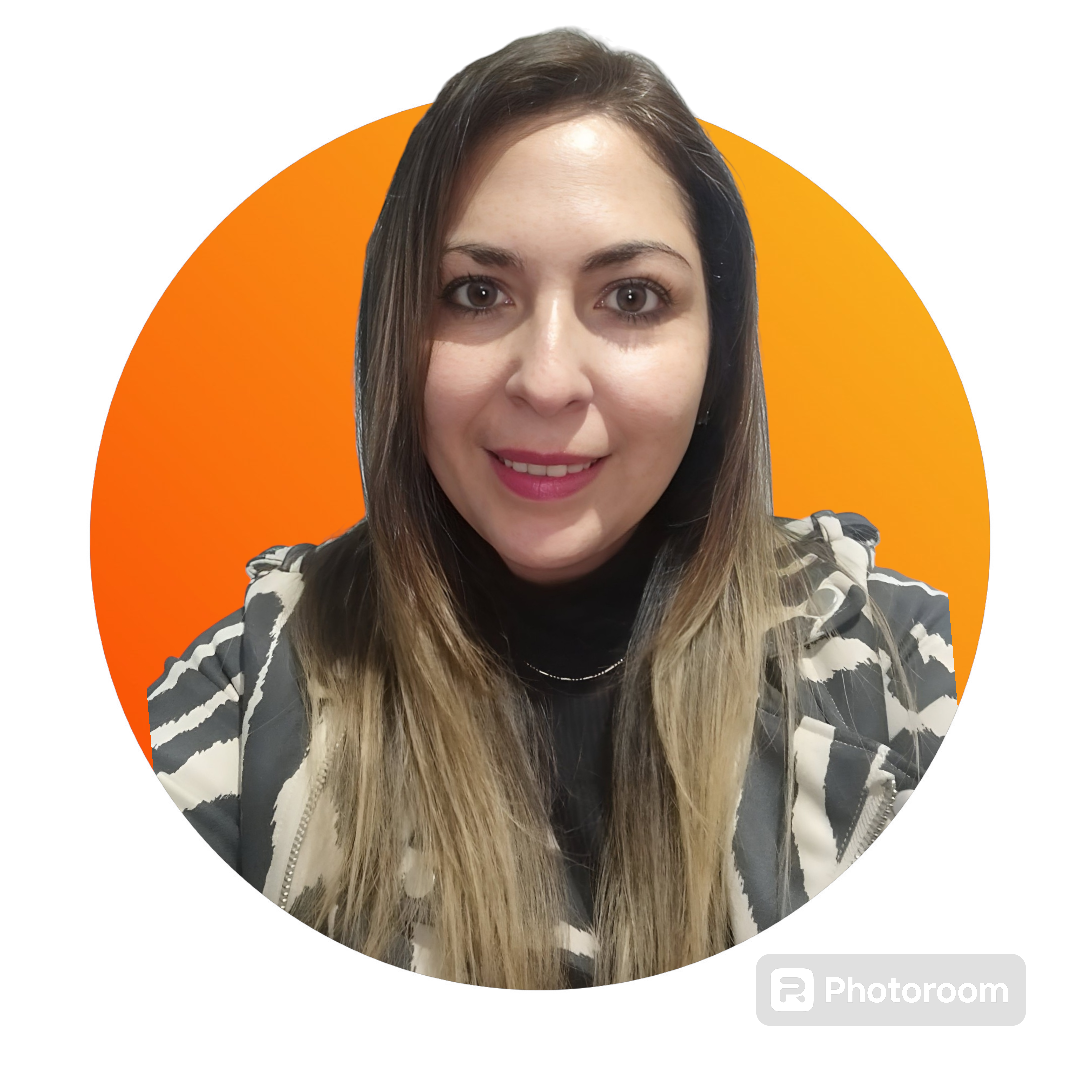
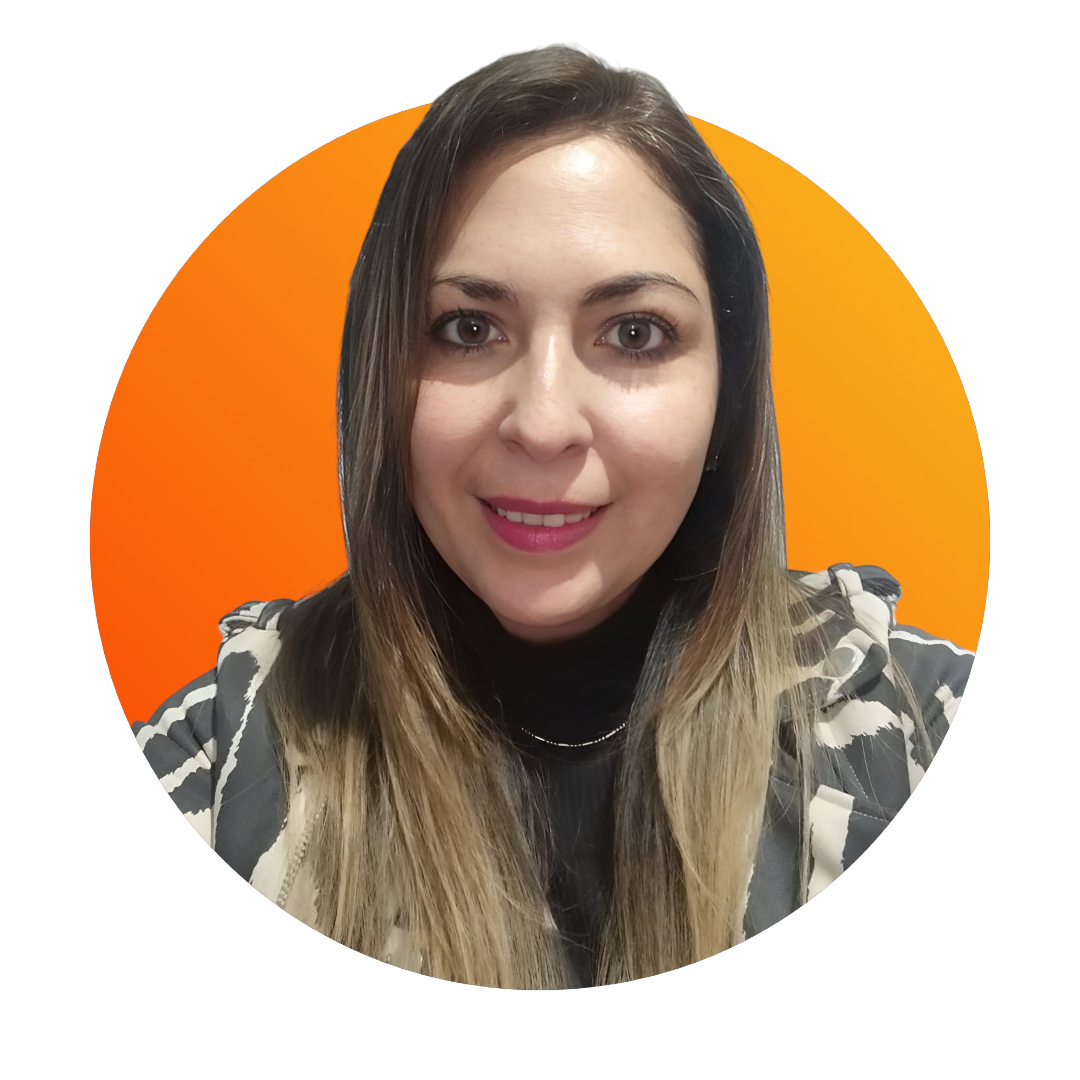
update team photos

Changed region(s): [[0.1222, 0.0, 0.9472, 0.9472], [0.3667, 0.1222, 0.3972, 0.1528]]

diff --git a/src/js/views/nosotros.js b/src/js/views/nosotros.js
@@ -10,7 +10,8 @@ import claudio from "../../img/Claudio.png";
 import solange from "../../img/Solange.png";
 import sandra from "../../img/Sandra.png";
 import michelle from "../../img/Michelle.png";
-import sahian from "../../img/Sayita.jpg";
+import sahian from "../../img/Sayita.png";
+import daniC from "../../img/DaniC.png";
 
 const Nosotros = () => {
     return <>
@@ -188,7 +189,7 @@ const Nosotros = () => {
                                 <div className="fst-italic text-muted">Social media manager</div>
                             </div>
                         </div>
-                        {/* <div className="col mb-5 mb-xl-5">
+                        <div className="col mb-5 mb-xl-5">
                             <div className="text-center">
                                 <img
                                     className="img-fluid rounded-circle mb-2 px-2"
@@ -198,7 +199,7 @@ const Nosotros = () => {
                                 <h5 className="fw-bolder">Daniela Córdova</h5>
                                 <div className="fst-italic text-muted">Administrative advisor</div>
                             </div>
-                        </div> */}
+                        </div>
                     </div>
                 </div>
             </section>
